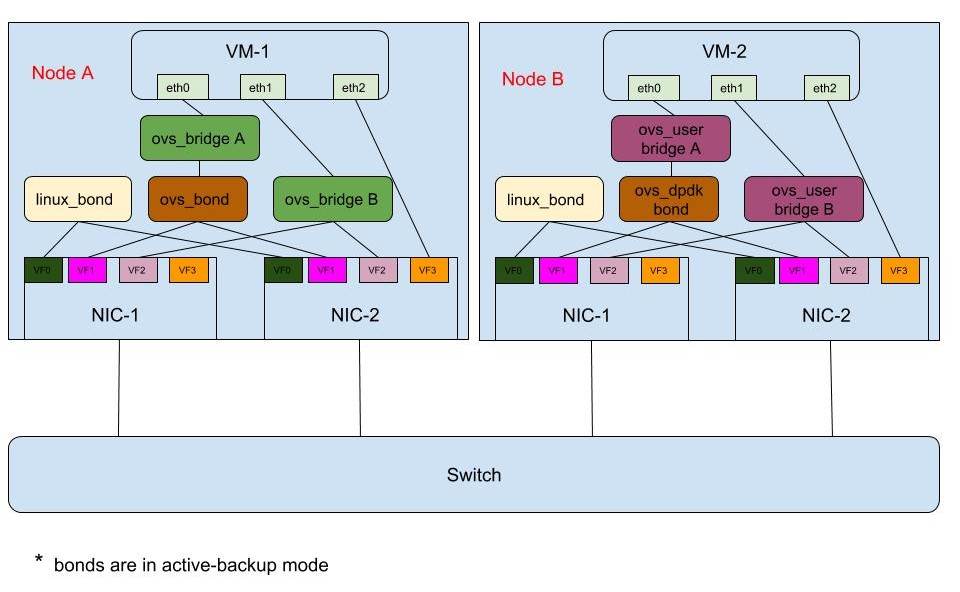
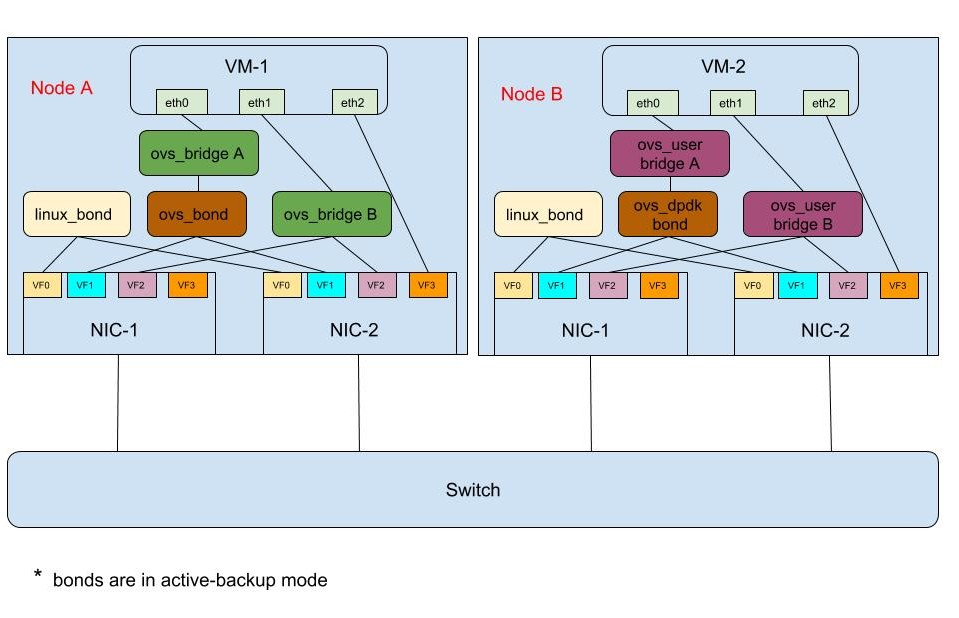
Update README.md

diff --git a/README.md b/README.md
@@ -4,6 +4,8 @@ This repo outlines the standalone/full stack templates required to setup and val
 
 # Standalone validation
 The standalone validation would require 2 baremetal machines with SR-IOV capable NICs. The validation procedure will generate the templates required for NIC partitioning and run os-net-config to create the various network objects (linux bond, ovs bond, ovs bridge, ovs user bridge, dpdk bond, vlan interface). Later ping tests could be run between these 2 machines and verify the setup created.
+The setup shall look like
+![alt text](images/standalone_testing.jpg)
 
 1. If the NIC Partitioning feature shall use VF's for DPDK then its required to setup hugepages, IOMMU on the host machine. The set_boot_params.sh script shall set the bootparams to enable IOMMU and 1G hugepages. The number of hugepages could be changed if required. This script needs to be run as root user.
 
